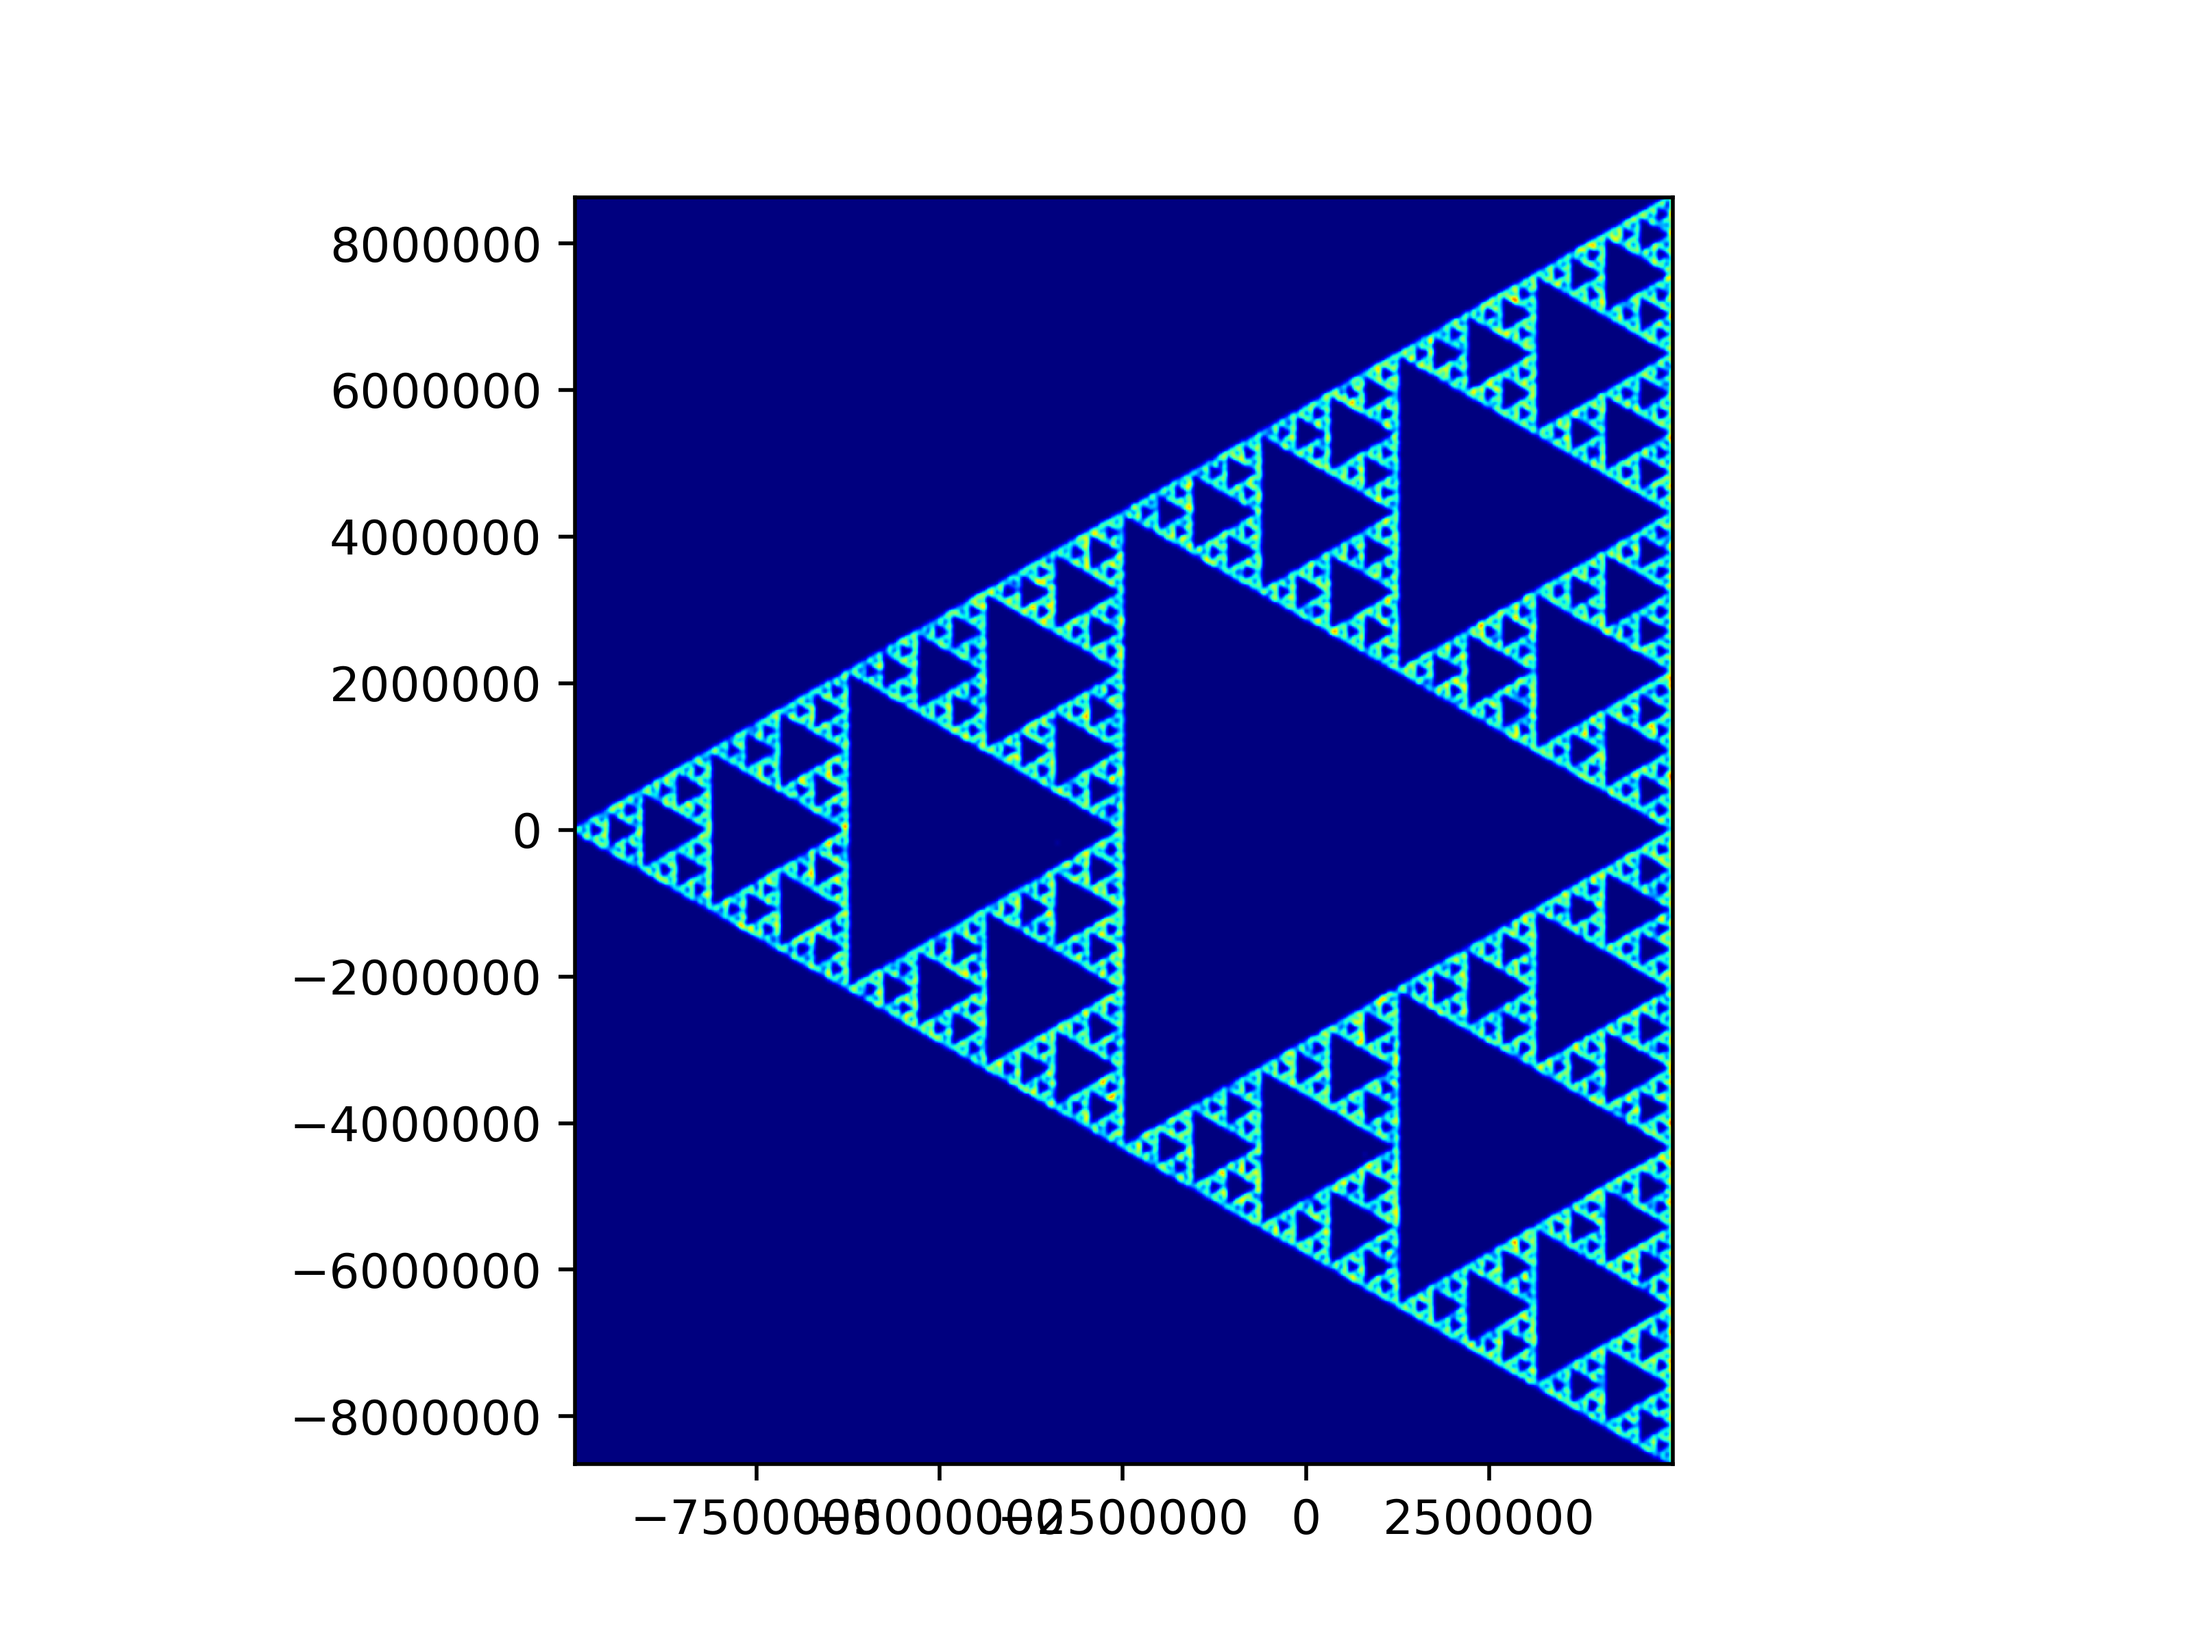
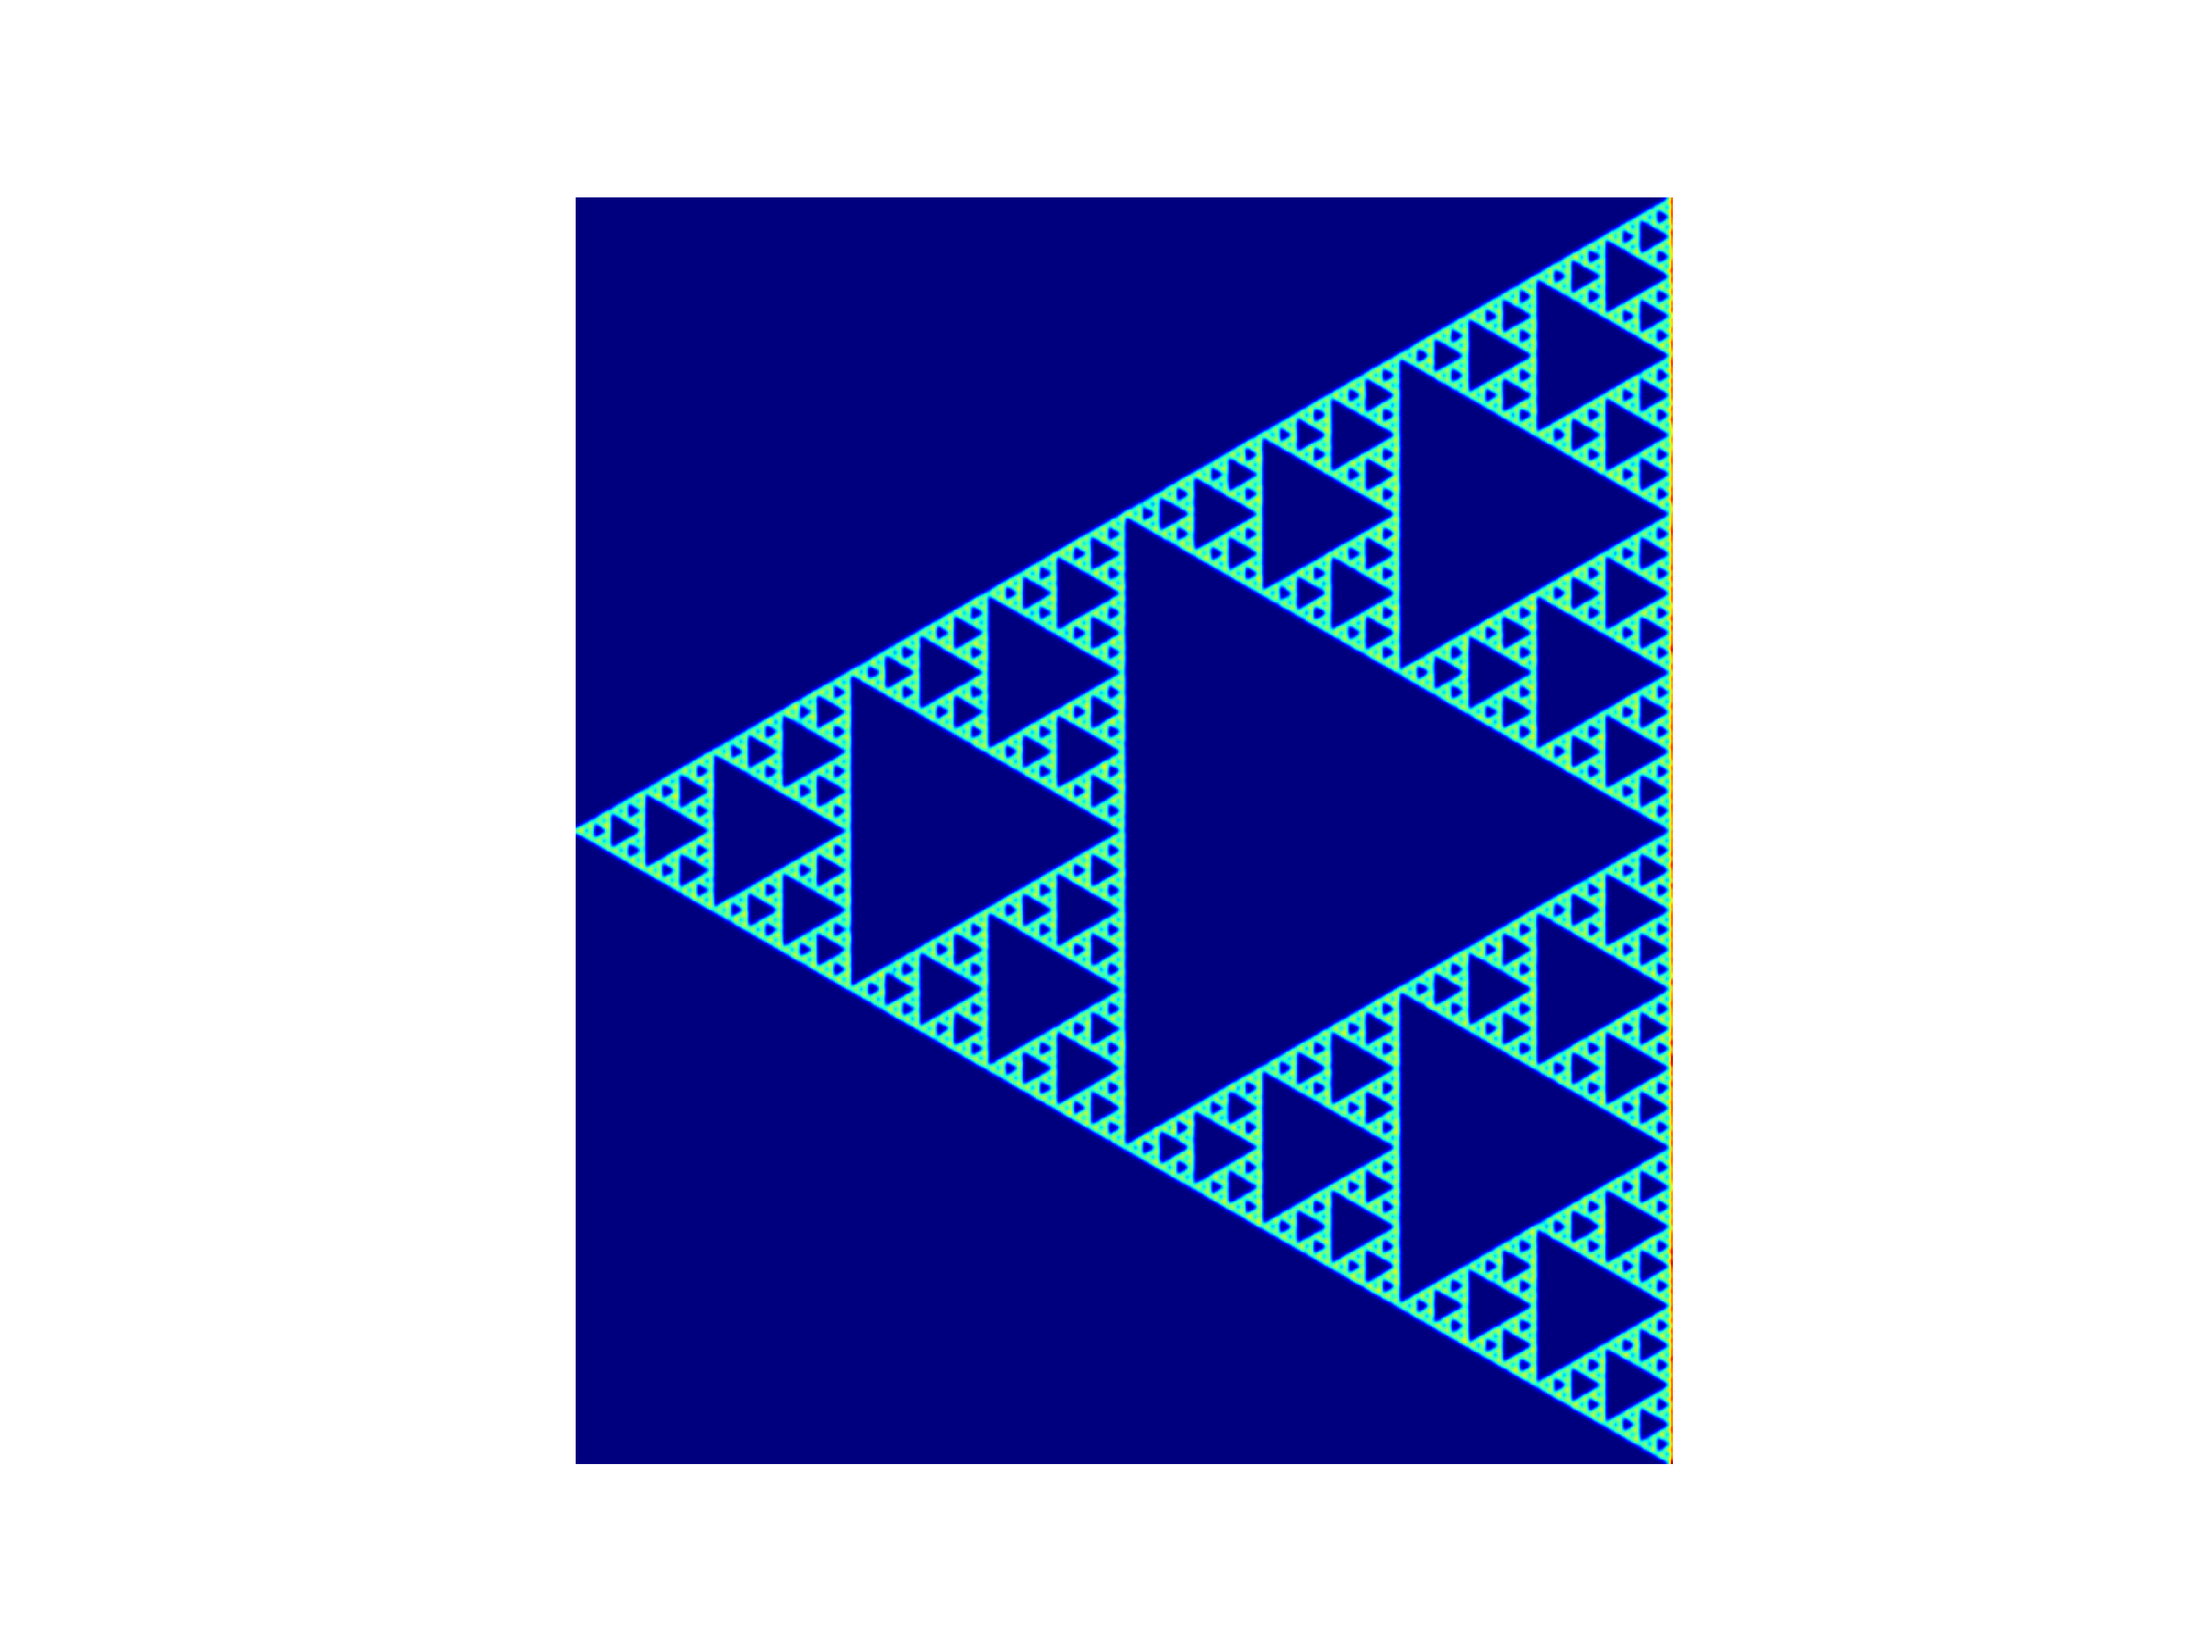
Update

diff --git a/_posts/2020-01-04-chaos game.md b/_posts/2020-01-04-chaos game.md
@@ -1,10 +1,10 @@
 ---
-title:  "Some of the Best Books I've Read in 2019"
-date:   2019-12-18 22:00:00 +1000
-categories: books
-tags: ranking 2019
+title:  "カオスゲーム part 1"
+date:   2019-01-04 22:00:00 +1000
+categories: maths programming
+tags: Python chaos fractal
 author: "RW"
-excerpt: "Javaの並列化について"
+excerpt: "カオスゲームの紹介"
 ---
 
 カオスゲームって知ってますか？カオスゲームは多角形内のランダムな点等をシードにするフラクタルの生成方法です。
@@ -29,7 +29,7 @@ cg.chaos_game(100000, 0.5)
 cg.generate_heatmap(save='sample.png')
 ```
 
-![](../../assets/images/2020/chaos_game_1.png)
+<img src="/assets/images/2020/chaos_game_1.png" alt="">
 
 綺麗ですね(小並感)。
 
@@ -39,13 +39,15 @@ cg.generate_heatmap(save='sample.png')
 正三角形を用意する。
 正三角形の各辺の中点を互いに結んでできた中央の正三角形を切り取る。
 残った正三角形に対して2の手順を無限に繰り返す。
-```
+``` 
 
 以上の通りです。
 
 ## シェルピンスキーのギャスケットが出現するわけ
 
-最初の点
+<img src="/assets/images/2020/chaos_game_5.jpg" alt="">
+
+最初の点がどこでも、ステップを踏むごとに小さな三角形に移動していきます。これが何ステップも進むとミクロな見えない点に入り、繰り返されるとシェルピンスキーのギャスケットが出来ます。
 
 ## 改変カオスゲーム
 
@@ -53,7 +55,7 @@ cg.generate_heatmap(save='sample.png')
 
 何を変えるか:
 - 最初の多角形
-- 中点を取るのではなく、何かの係数を取る(係数とは)
+- 中点を取るのではなく、何かの係数を取る
 - 多次元への拡張
 - ランダムな頂点を選ぶのではなく、選べる頂点を制限する
   - 現在の頂点は次選べない
@@ -62,7 +64,7 @@ cg.generate_heatmap(save='sample.png')
 
 ### 改変カオスゲームを試す
 
-5角形で、係数を0.5、制限を現在の頂点は次選べないことにします。
+五角形で、係数を0.5、制限を現在の頂点は次選べないことにします。
 
 ```python
 cg = ChaosGameRegularPolygon(5)
@@ -70,6 +72,30 @@ cg.chaos_game_restricted(1000000, 0.5, 2)
 cg.generate_heatmap(save='sample.png')
 ```
 
-![](../../assets/images/2020/chaos_game_2.png)
+<img src="/assets/images/2020/chaos_game_2.png" alt="">
 
-綺麗ですね(小並感)。雪の結晶みたいなフラクタルができました。
+綺麗ですね(小並感)。雪の結晶みたいなフラクタルができました。よく見ると、少し蜘蛛っぽくてキモいですね。
+
+続いて、四角形で係数を0.5、制限を次の頂点は現在のから2つ離れてるのを選べないことにします。
+
+```python
+cg = ChaosGameRegularPolygon(4)
+cg.chaos_game_restricted(1000000, 0.5, 2)
+cg.generate_heatmap(save='sample.png')
+```
+
+<img src="/assets/images/2020/chaos_game_3.png" alt="">
+
+綺麗ですね(小並感)。通常のカオスゲームでは四角形は以下のようなランダムなノイズしかできません。制限を設けると面白いフラクタルが色々出てきます。
+
+```python
+cg = ChaosGameRegularPolygon(4)
+cg.chaos_game(1000000, 0.5)
+cg.generate_heatmap(save='sample.png')
+```
+
+<img src="/assets/images/2020/chaos_game_4.png" alt="">
+
+## 拡張
+
+正多角形以外でカオスゲームをやったり、三次元、多次元の立体にカオスゲームを適用するとまた興味深いフラクタルが出てきます。これらは次回紹介したいと思います。
